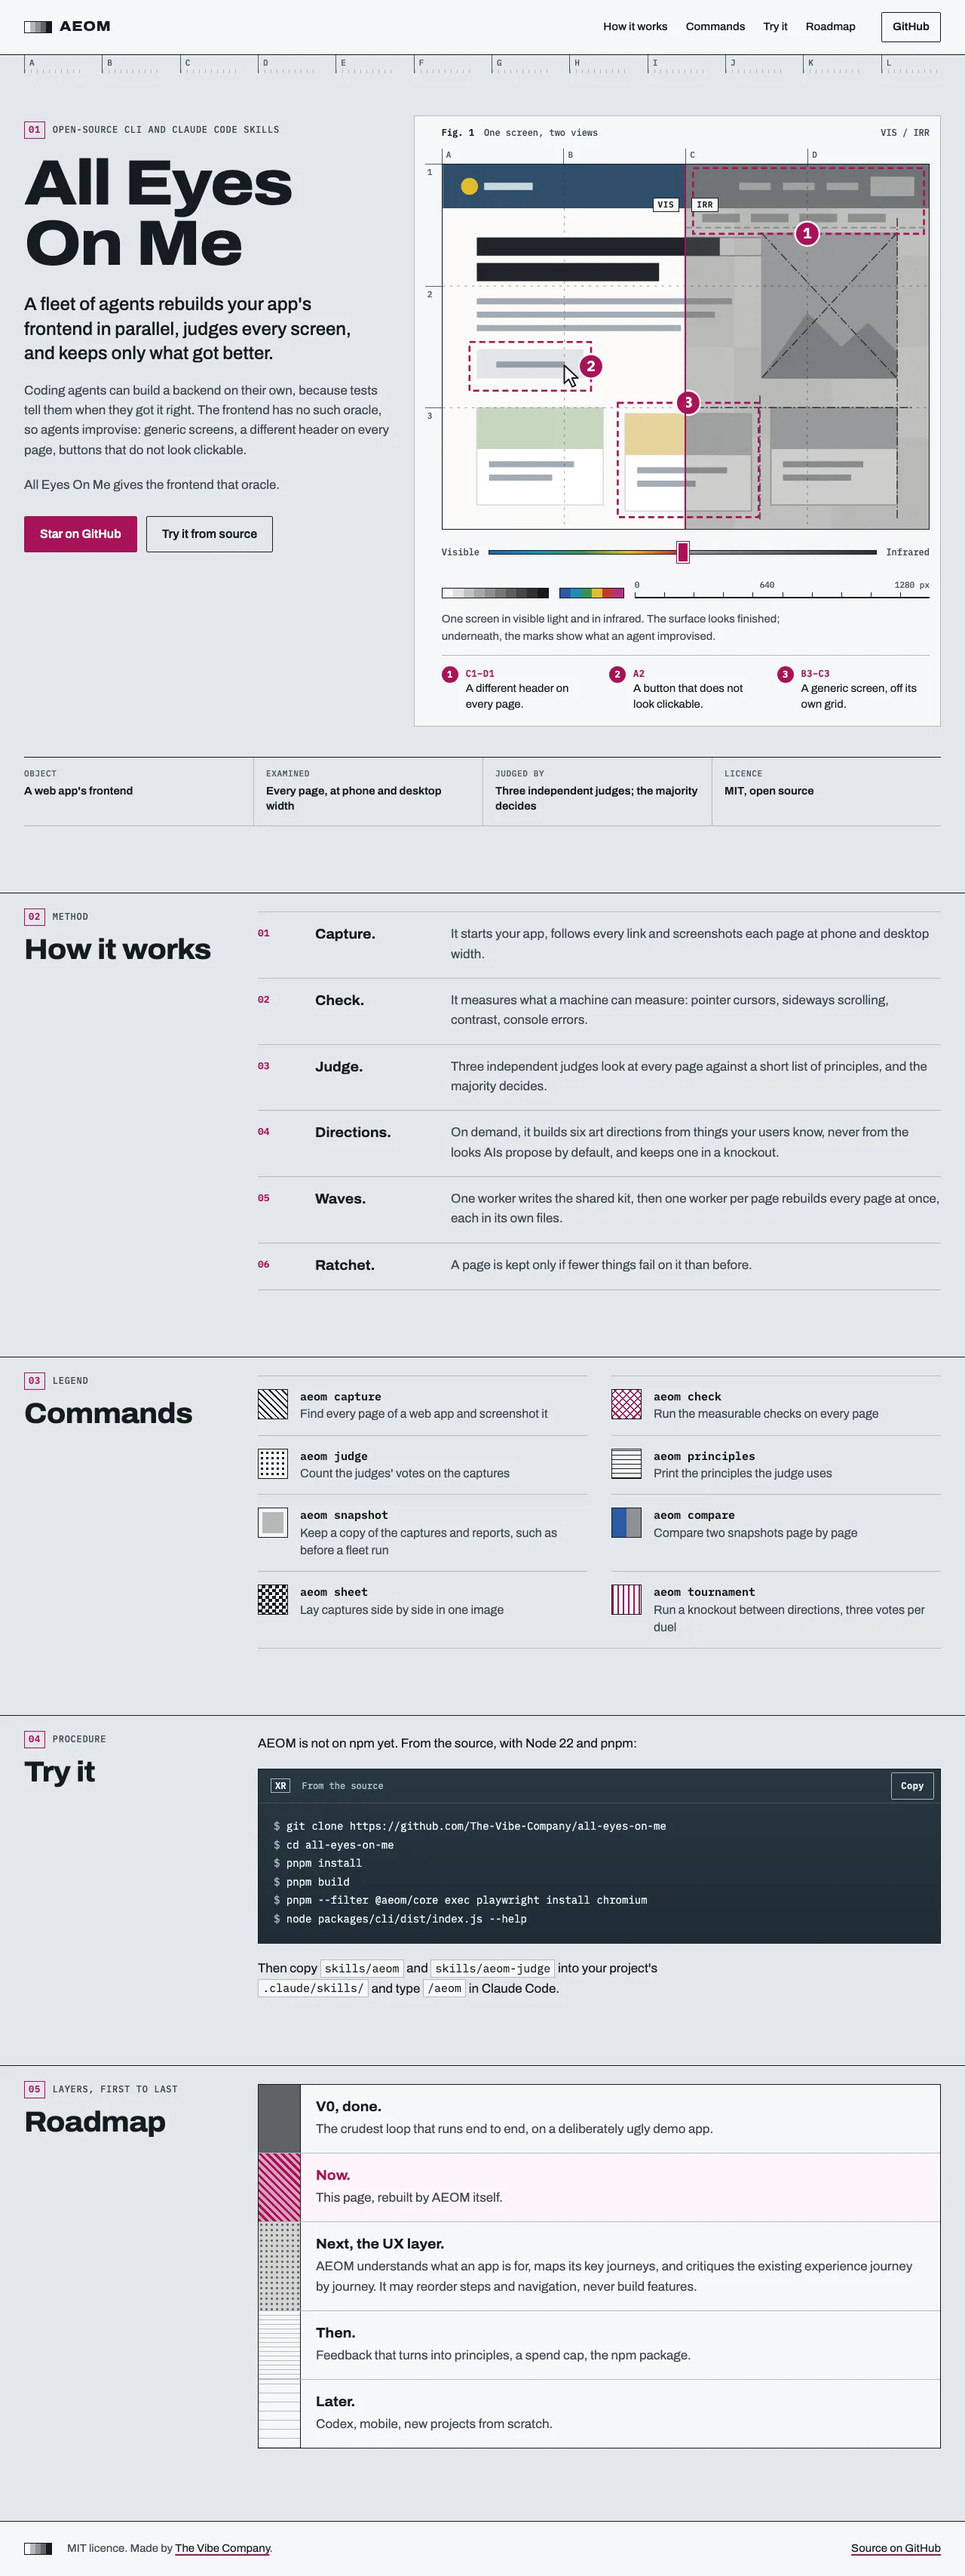
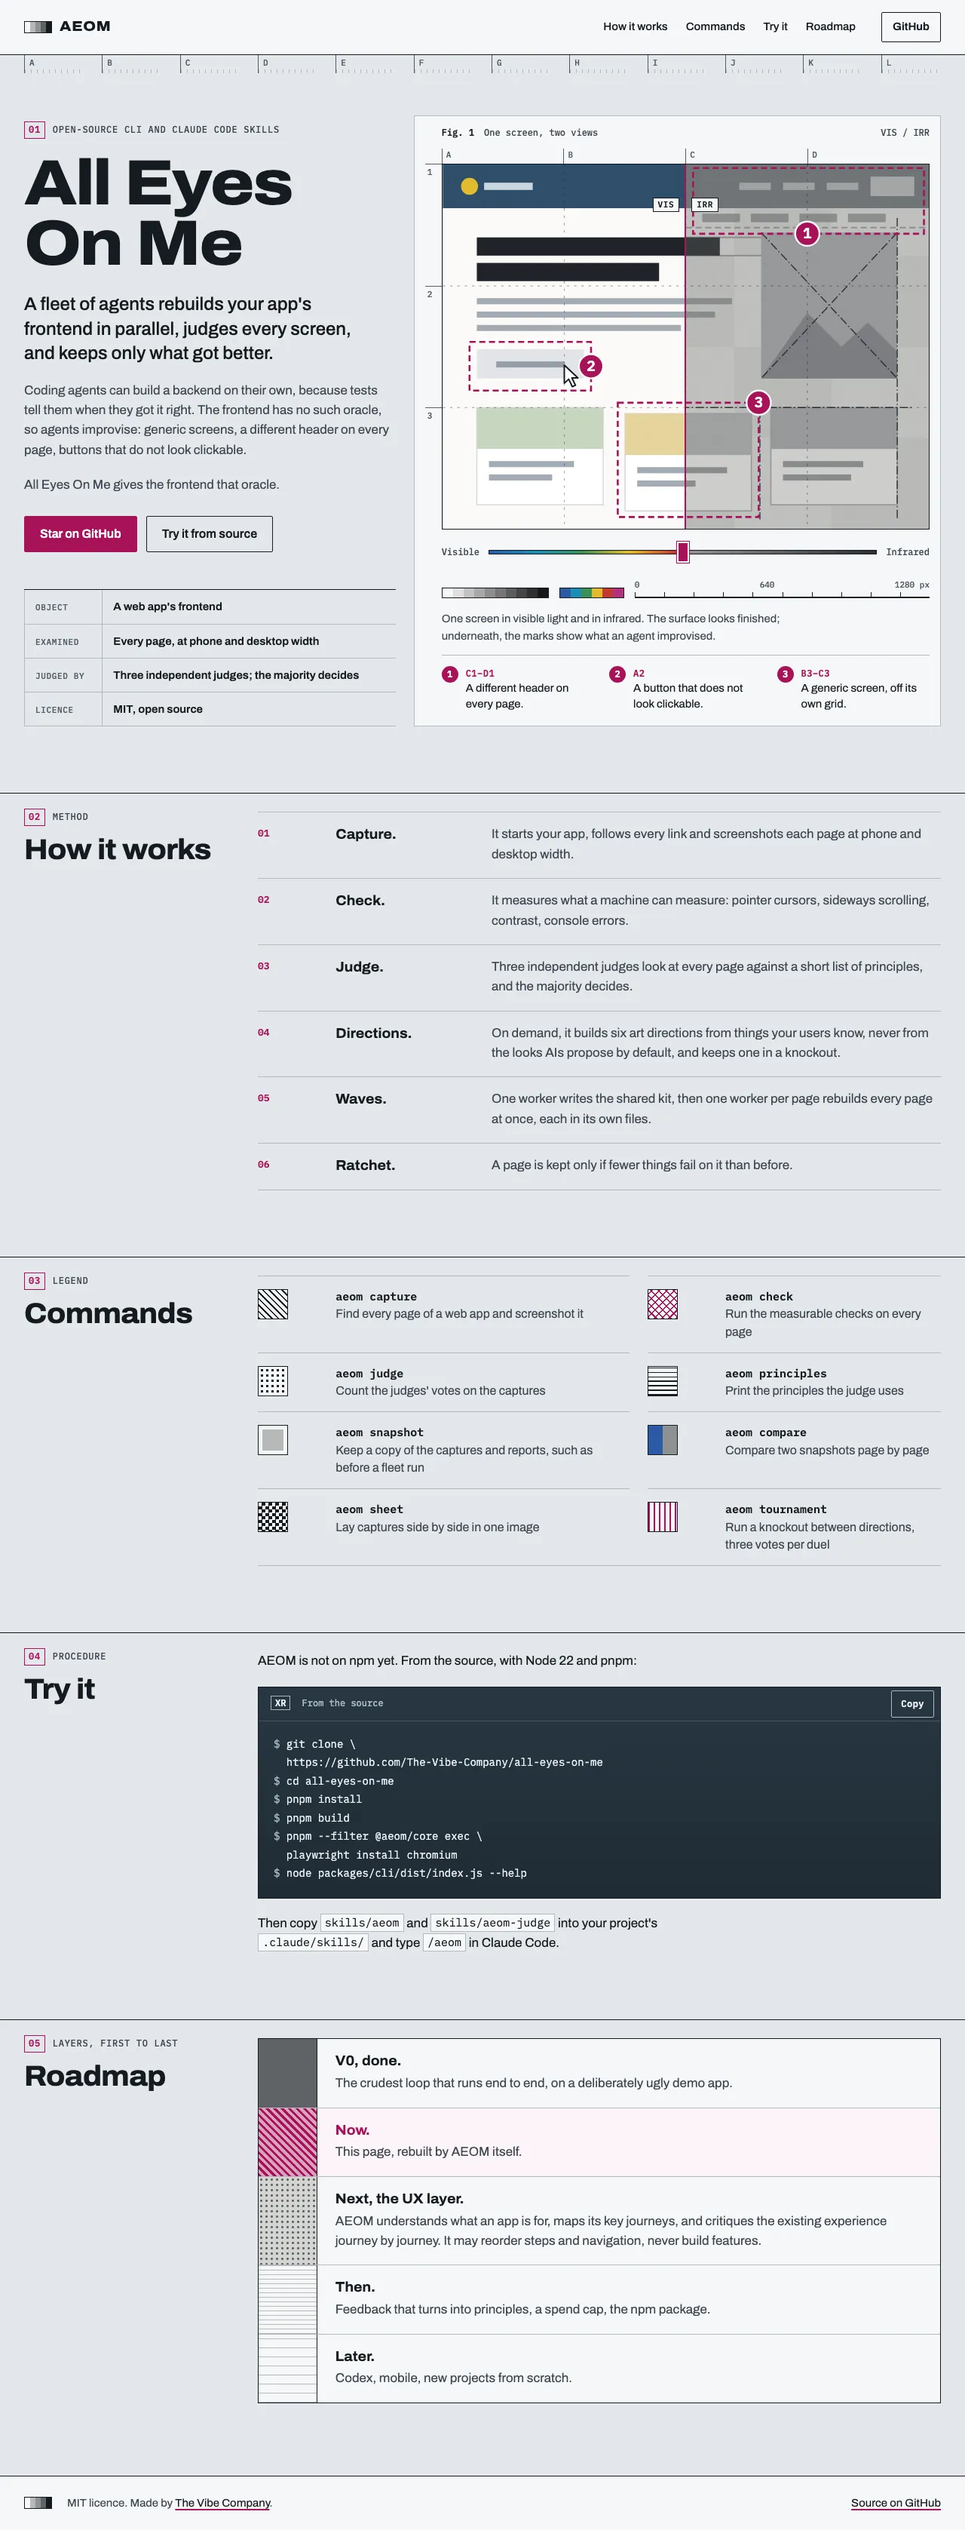
feat(site): keep the final after, mark landing ticket 02 done
The after captures and reports now show the page once both fix passes
landed: all 4 checks and all 8 principles pass.

diff --git a/.veebee/autopilot/2026-10-07.md b/.veebee/autopilot/2026-10-07.md
@@ -15,9 +15,12 @@
 - 02 aeom check : 4 contrôles mesurables — PR #7
 - 03 Le juge — PR #8, suites de la relecture cubic — PR #10
 - 04 /aeom, la flotte — PR #9 : vérifié par un vrai run sur l'app moche, 33 problèmes avant, 2 après, les 4 pages meilleures (branche aeom/run-20261007-1707). Suites de la relecture cubic — PR #11.
+- 05 Les directions — PR #12, suites — PR #13. Deux runs : le premier, à partir d'archétypes, a été rejeté par Antoine (« les designs ultra classiques de l'IA ») ; le second part de sources du monde de la boutique et a élu le plan d'architecte.
+- Le skill montre des captures au fil du run — PR #21 ; un worker n'arrête que son serveur et utilise son propre navigateur — PR #22.
 
-## En cours
-- 05 Les directions — PR ouverte. Deux runs : le premier, à partir d'archétypes, a été rejeté par Antoine (« les designs ultra classiques de l'IA ») ; le second part de sources du monde de la boutique et a élu le plan d'architecte. La mécanique « la gagnante appliquée à toutes les pages » est vérifiée (4 contrôles verts sur les 4 pages).
+## Landing (01-landing)
+- 01 La landing V0 — PR #20.
+- 02 AEOM refait sa landing — run `run-landing-20261007-2321` : 6 directions (tableau d'examen de la vue, bon à tirer, table lumineuse, tailleur, panneau des juges, réflectographie), aucune écartée par les 3 juges de la liste noire. Tournoi : réflectographie gagne chaque duel 3 à 0, contre panneau des juges puis table lumineuse en finale. Avant : 7 problèmes (1 contrôle, 6 principes). Première mesure de la gagnante : 4 contrôles verts, 2 principes en échec (grille, densité à 390 px). Deux passes de workers : la grille d'abord (le contenu posé sur la règle A–L), puis la densité (bloc d'installation lisible sur téléphone, hero équilibré). Après : 4 contrôles et 8 principes verts. Reste vu à l'œil, hors des largeurs jugées : entre 1080 et 1180 px, la figure garde un peu de vide en bas. Le run est gardé sous `site/run/`.
 
 ## Notes
 - Merge : auto-merge GitHub en squash, activé à la demande d'Antoine ; main exige les checks test et cubic.

diff --git a/.veebee/milestones/01-landing/tickets/02-aeom-refait-la-landing.md b/.veebee/milestones/01-landing/tickets/02-aeom-refait-la-landing.md
@@ -4,6 +4,7 @@ title: AEOM refait sa propre landing : 6 directions, un tournoi, la gagnante app
 milestone: 01-landing
 depends_on: [01]
 design: null
+status: done
 tracker: { tool: github, id: 15, url: https://github.com/The-Vibe-Company/all-eyes-on-me/issues/15 }
 ---
 
